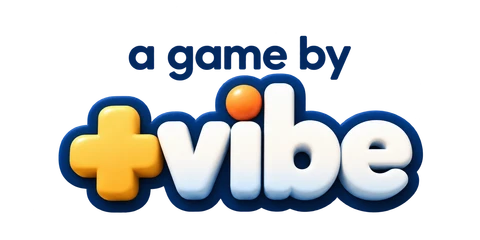
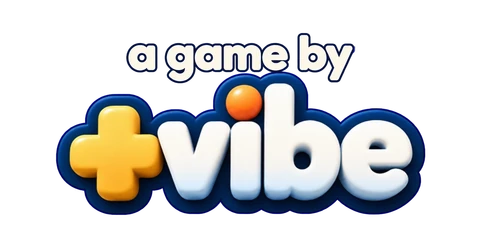
Improve studio caption contrast and loading bar proportions

diff --git a/src/loading/shell.css b/src/loading/shell.css
@@ -12,10 +12,9 @@ html,body{margin:0;background:#3521cb}body[data-startup] #ui-root{visibility:hid
 .startup-magnets{position:absolute;left:10%;top:38%;width:80%;height:24%;display:flex;gap:4%;align-items:center;justify-content:center}
 #startup-shell .startup-magnets img{position:static;width:29%;height:100%}
 .startup-magnets img:first-child{transform:rotate(-16deg)}.startup-magnets img:last-child{transform:rotate(16deg)}
-.startup-meter{position:absolute;left:15%;top:68%;width:70%;height:5%;min-height:20px;max-height:44px}
-#startup-shell .startup-track{inset:0;width:100%;height:100%;object-fit:fill}
-.startup-meter-window{position:absolute;inset:22% 4%;overflow:hidden;border-radius:999px;background:#29116c}
-#startup-shell .startup-fill{inset:0;width:100%;height:100%;object-fit:fill;clip-path:inset(0 calc(100% - var(--loaded,0%)) 0 0)}
+.startup-meter{position:absolute;left:50%;top:68%;transform:translateX(-50%);width:min(70%,360px);height:30px;box-sizing:border-box;border:2px solid #f0c675;border-radius:999px;background:linear-gradient(#fffaf1,#ecd7bb);box-shadow:inset 0 0 0 1px #fffaf1,0 2px 0 #7f4a9d80}
+.startup-meter-window{position:absolute;inset:4px;overflow:hidden;border-radius:999px;background:#29116c;box-shadow:inset 0 1px 3px #160a4670}
+.startup-fill{height:100%;width:var(--loaded,0%);border-radius:inherit;background:linear-gradient(#bd72ff,#8a38ed 45%,#6520c9);box-shadow:inset 0 2px 0 #e4b4ff80}
 #startup-shell .studio-logo{left:29%;top:79%;width:42%;height:12%}
 #startup-error{flex-direction:column;gap:20px;text-align:center;padding:24px}
 #startup-error p{margin:0;max-width:400px}#startup-error button{font:inherit;border:2px solid #fff;border-radius:18px;background:#fff;color:#3521cb;padding:14px 36px;cursor:pointer;min-height:48px}

diff --git a/src/art/catalog.js b/src/art/catalog.js
@@ -2,7 +2,7 @@
 const colors = ['violet', 'blue', 'coral', 'gold', 'lime', 'teal', 'pink'];
 export const boardAssets = ['tile', 'tile-blocked', ...colors.flatMap(color => [`chip-${color}`, `magnet-${color}`, `tile-magnetic-${color}`])];
 export const uiAssets = ['defeat-panel', 'defeat-illustration', 'moves-star', 'background-v2', 'background-grid-mask-v2', 'victory-panel-v2', 'logo-exact', 'panel', 'modal', 'button-purple', 'button-green', 'button-light',
-  'tool-neutral-frame', 'tool-selected-frame', 'pause', 'close', 'hint', 'restart', 'progress-empty', 'progress-full', 'switch-off', 'switch-thumb', 'loading-track', 'loading-fill', 'tutorial-arrow',
+  'tool-neutral-frame', 'tool-selected-frame', 'pause', 'close', 'hint', 'restart', 'progress-empty', 'progress-full', 'switch-off', 'switch-thumb', 'tutorial-arrow',
   'victory-star-v2', 'confetti-violet', 'confetti-yellow', 'confetti-blue', 'tutorial-hand'];
-export const shellPaths = ['background-v2', 'logo-exact', 'magnet-blue', 'magnet-violet', 'magnet-coral', 'loading-track', 'loading-fill'].map(name => `art/mockup/${name}.png`).concat('art/loading/studio.webp');
+export const shellPaths = ['background-v2', 'logo-exact', 'magnet-blue', 'magnet-violet', 'magnet-coral'].map(name => `art/mockup/${name}.png`).concat('art/loading/studio.webp');
 export const runtimePaths = [...new Set([...boardAssets, ...uiAssets].map(name => `art/mockup/${name}.png`).concat(shellPaths, ['art/range-map-1.png', 'art/range-map-2.png', 'fonts/Nunito.ttf']))];

diff --git a/src/loading/shell.js b/src/loading/shell.js
@@ -41,12 +41,12 @@ export function createLoadingShell() {
     const image = new Image(); image.src = assetUrl(path); await image.decode(); image.alt = ''; return image;
   })).then(images => {
     if (disposed || failed) throw new Error('Loading cancelled');
-    const [background, logo, blue, violet, coral, track, fill, studio] = images;
+    const [background, logo, blue, violet, coral, studio] = images;
     shell.style.backgroundImage = `url("${background.src}")`;
     logo.className = 'startup-logo'; logo.alt = 'Magnet Sort';
     const magnets = document.createElement('div'); magnets.className = 'startup-magnets'; magnets.setAttribute('aria-hidden', 'true'); magnets.append(blue, violet, coral);
-    track.className = 'startup-track'; fill.className = 'startup-fill';
-    const window = document.createElement('div'); window.className = 'startup-meter-window'; window.append(fill); meter.append(track, window);
+    const fill = document.createElement('div'); fill.className = 'startup-fill';
+    const window = document.createElement('div'); window.className = 'startup-meter-window'; window.append(fill); meter.append(window);
     studio.className = 'studio-logo'; studio.alt = 'A game by Plus Vibe';
     content.append(logo, magnets, meter, studio);
     preloader.hidden = true; shell.hidden = false;

diff --git a/docs/knowledge/startup-production.md b/docs/knowledge/startup-production.md
@@ -7,3 +7,4 @@
 - Признак: фон/лого загрузки могут не успеть, entry/CSS тоже могут упасть. Способ: inline CSS первый paint; shell assets decode → импорт runtime → все текстуры/UI/font → реальный ready + минимум 1 с видимого времени → reveal. HTML capture error обрабатывает отказ самого entry (Vite не сохраняет onerror исходного module script при переносе в head). Проверка: 4 viewport и 5 отказов/Retry в production tool, unit visible-time/monotonic progress. Ограничение: 90 с timeout после старта entry, до него нет JS-таймера; принудительное завершение браузера не обрабатывается.
 - Отдельная серверная публикация использует имеющийся Caddy bind mount, каталог `static/magnet-sort`, route `/magnet-sort/`, собственные releases/current/shared. Не переносить White Tower API, Telegram tokens, storage или его игровые данные. Происхождение логотипа: `public/art/loading/README.md`.
 - После первой реальной публикации origin возвращал no-cache даже для assets: общий header внутри handle_path перезаписывал условный. Рабочий способ: взаимоисключающие `@magnet_assets path /assets/*` / `@magnet_fresh not path /assets/*` для обоих root и Cache-Control, без общего fallback внутри subroute. Проверено 2026-10-18: Caddy validate/reload, origin HTTPS и Cloudflare MISS: asset immutable/year, build-info no-cache. Старый CDN-кеш может сохранять прежние headers до истечения; проверять свежий cache key.
+- Исправление вида loading 2026-10-18: две растянутые PNG-капсулы с собственной окантовкой давали дефекты концов и сплющенную полосу в landscape. В shell используются CSS-поверхности существующей темы, height30/max-width360 и overflow-hidden у внутренней скруглённой области; старые track/fill исключены из preload. Тёмная подпись студии заменена imagegen-редакцией со светлым `a game by`, source/prompt в `docs/design/loading-polish`. Проверка — browser в 6 viewport до2560px и при 0/8/50/100%; исходные размеры конверсии выше относятся к первой сборке до удаления двух PNG.

diff --git a/docs/design/loading-polish/README.md b/docs/design/loading-polish/README.md
@@ -1,0 +1,22 @@
+# Loading contrast and progress bar — 2026-10-18
+
+Owner correction: make the studio caption light on the dark background and fix
+the bar's edge artifacts / stretched appearance on wide screens.
+
+`studio-light-source.png`: built-in imagegen edit of `public/art/loading/studio.webp`
+from the previous commit. Output `exec-e4afa958-d805-4139-a159-74e9e9e01144.png`.
+Transparent alpha preserved; runtime is encoded to width480 with sharp 0.35.5,
+WebP quality90, alphaQuality100, effort6. Prompt:
+
+> Use case: precise-object-edit. Edit the supplied transparent Plus Vibe studio logo for a game loading screen. Change ONLY the small top caption 'a game by' from dark navy to bright warm ivory-white (#fff9ed), with a subtle narrow navy edge/shadow so it stays crisp on a dark blue-purple game background. Keep the exact text 'a game by', same font, weight, size, location and baseline. Preserve the large '+vibe' logo, yellow plus, orange dot, white 3D letters, navy outlines, shadows, composition, proportions and all other details exactly. No redesign, no additional objects, no new text, no translation. Preserve a genuinely transparent background and the same overall wide image framing, with minimal existing transparent padding. Output a clean production-ready transparent PNG.
+
+The old track and fill were full raster capsules with mismatched aspect ratios,
+each with a border. Stretching and clipping them produced doubled/warped edges.
+They are removed from the startup/preload allowlist. The bar uses the existing
+game's CSS surface colors: cream/gold frame, dark trough and purple gradient.
+It stays 30px tall and at most 360px wide; a rounded inner window contains the
+fill at every fraction, including a fully empty and fully completed bar.
+
+Browser verification: 360×800, 390×844, 844×390, 1440×900, 1920×1080,
+2560×1080; snapshots at 0/8/50/100%, plus reduced motion and loading/Retry.
+Evidence lives under ignored `artifacts/loading-browser/`; no physical phone claim.

diff --git a/public/art/loading/README.md b/public/art/loading/README.md
@@ -1,8 +1,14 @@
 # Plus Vibe studio logo
 
-Copied unchanged on 2026-10-18 from the adjacent White Tower project:
+Original copied on 2026-10-18 from the adjacent White Tower project:
 `assets/ui/loading/studio.webp` (owner-provided branding, transfer explicitly requested).
 White Tower provenance: owner source `docs/tasks/inputs/TASK-0085/studio-logo-source.png`,
 encoded with sharp to width 480, WebP quality 90 / alpha 100. No regeneration or crop.
+2026-10-18 owner correction: the caption was unreadable on the dark game background.
+Built-in imagegen edited the supplied logo so `a game by` is ivory-white with
+a narrow dark edge; main brand, transparent background and composition retained.
+Source and exact prompt: `docs/design/loading-polish/`. Runtime encoding:
+sharp 0.35.5, width480 (480×240), WebP quality90/alpha100/effort6.
 Only the runtime image is bundled. The loader reuses Magnet Sort's own logo,
-three magnet images, background and progress artwork.
+three magnet images and background. The progress bar now uses CSS surfaces
+matching the game's existing cream/gold frame and purple fill, with a capped width.
